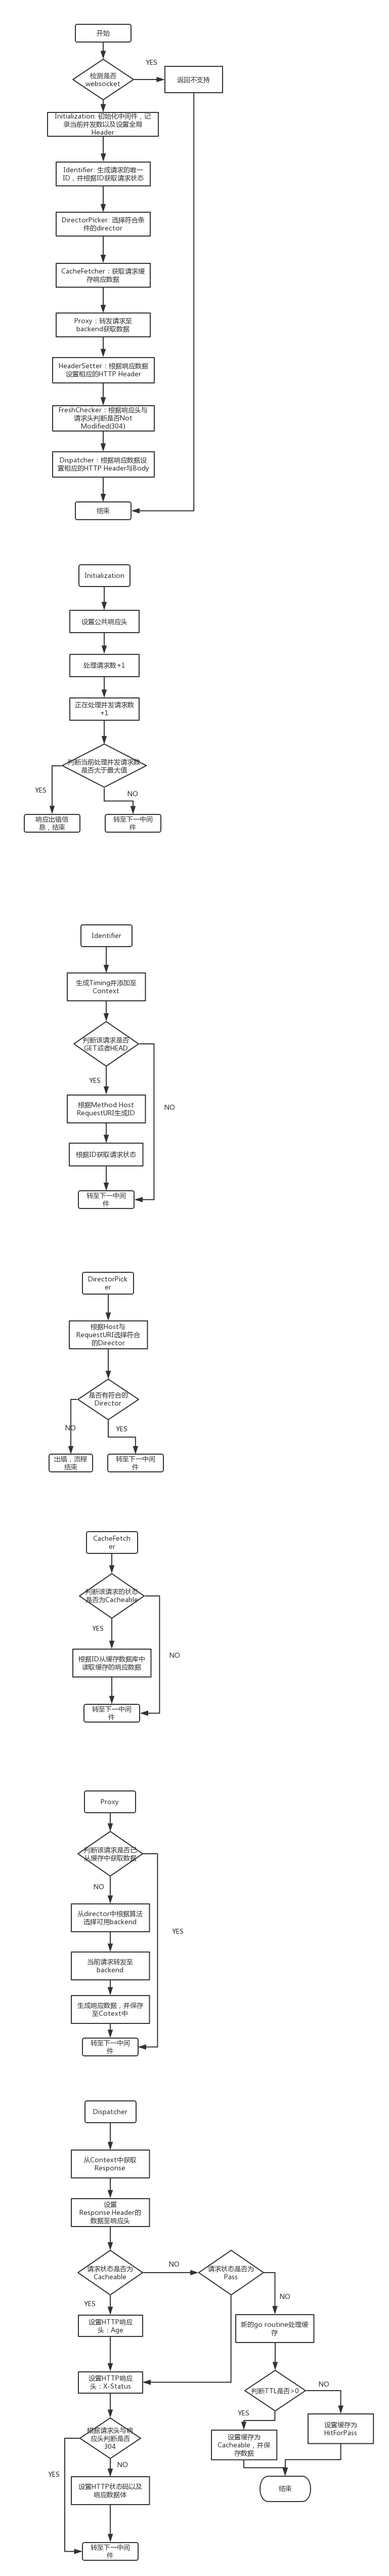
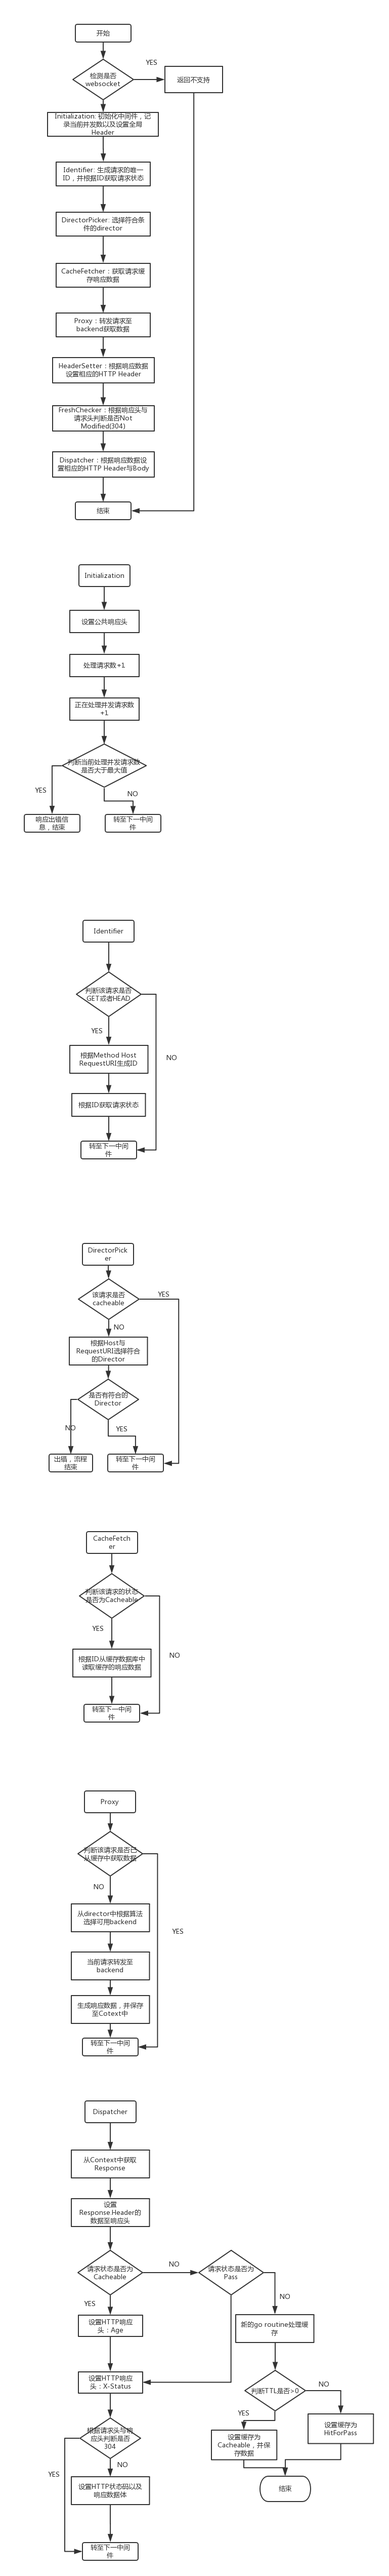
docs: update readme

Changed region(s): [[0.1873, 0.3417, 0.4057, 0.5281], [0.4369, 0.4971, 0.4681, 0.5592]]

diff --git a/middleware/structs.go b/middleware/structs.go
@@ -166,6 +166,7 @@ func NewContext(c echo.Context) *Context {
 
 // ReleaseContext 释放Context
 func ReleaseContext(pc *Context) {
+	pc.Context = nil
 	contextPool.Put(pc)
 }
 

diff --git a/README.md b/README.md
@@ -26,13 +26,14 @@ cd admin \
 
 ## 中间件
 
-中间件设置的Cotenxt参数有：
+中间件自定义Cotenxt新增参数有：
 
 - `status`: 该请求对应的状态（必须）
 - `identity`: 该请求对应的id（如果是Pass的请求则无此参数）
 - `director`: 该请求对应的director
-- `response`: 该请求的响应数据（包括HTTP状态码，响应头，响应内容）
-- `timing`: 记录处理时长，生成Server-Timing
+- `resp`: 该请求的响应数据（包括HTTP状态码，响应头，响应内容）
+- `createdAt`: 记录context的创建时间
+- `serverTiming`: 用于记录生成各中间件处理时长的server timing
 - `fresh`: 根据HTTP请求头与响应头判断数据是否为fresh
 
 ### Initialization
@@ -44,7 +45,6 @@ cd admin \
 
 ### Identifier
 
-- 生成Timing并添加至Context中
 - 判断该请求是否为Pass(非GET与HEAD请求)，如果是则跳至下一中间件
 - 生成请求的唯一ID (method + host + requestURI)
 - 获取该ID对应的请求状态（fetching, hitforpas cacheable）
@@ -53,21 +53,21 @@ cd admin \
 
 ## DirectorPicker
 
+- 如果请求是`Cacheable`，直接从缓存中读取，跳过director picker
 - 根据Host与Request从配置的director列表中选择符合的director
 - 设置符合的director至Context中
 
 ## CacheFetcher
 
 - 如果该请求对应的状态不是`cacheable`，则跳至下一中间件
-- 从缓存数据库中读取该请求对应的响应数据并记录耗时
+- 从缓存数据库中读取该请求对应的响应数据
 - 设置响应数据至Context中
 
 ## Proxy
 
 - 如果该请求已经从缓存中获取数据，则跳至下一中间件
 - 根据director配置的backend选择算法，选择符合的可用backend
-- 将当前请求转发至backend，获取数据并记录耗时
-- 生成响应数据，并设置至Context中
+- 将当前请求转发至backend，获取响应数据，并设置至Context中
 
 ## HeaderSetter
 
